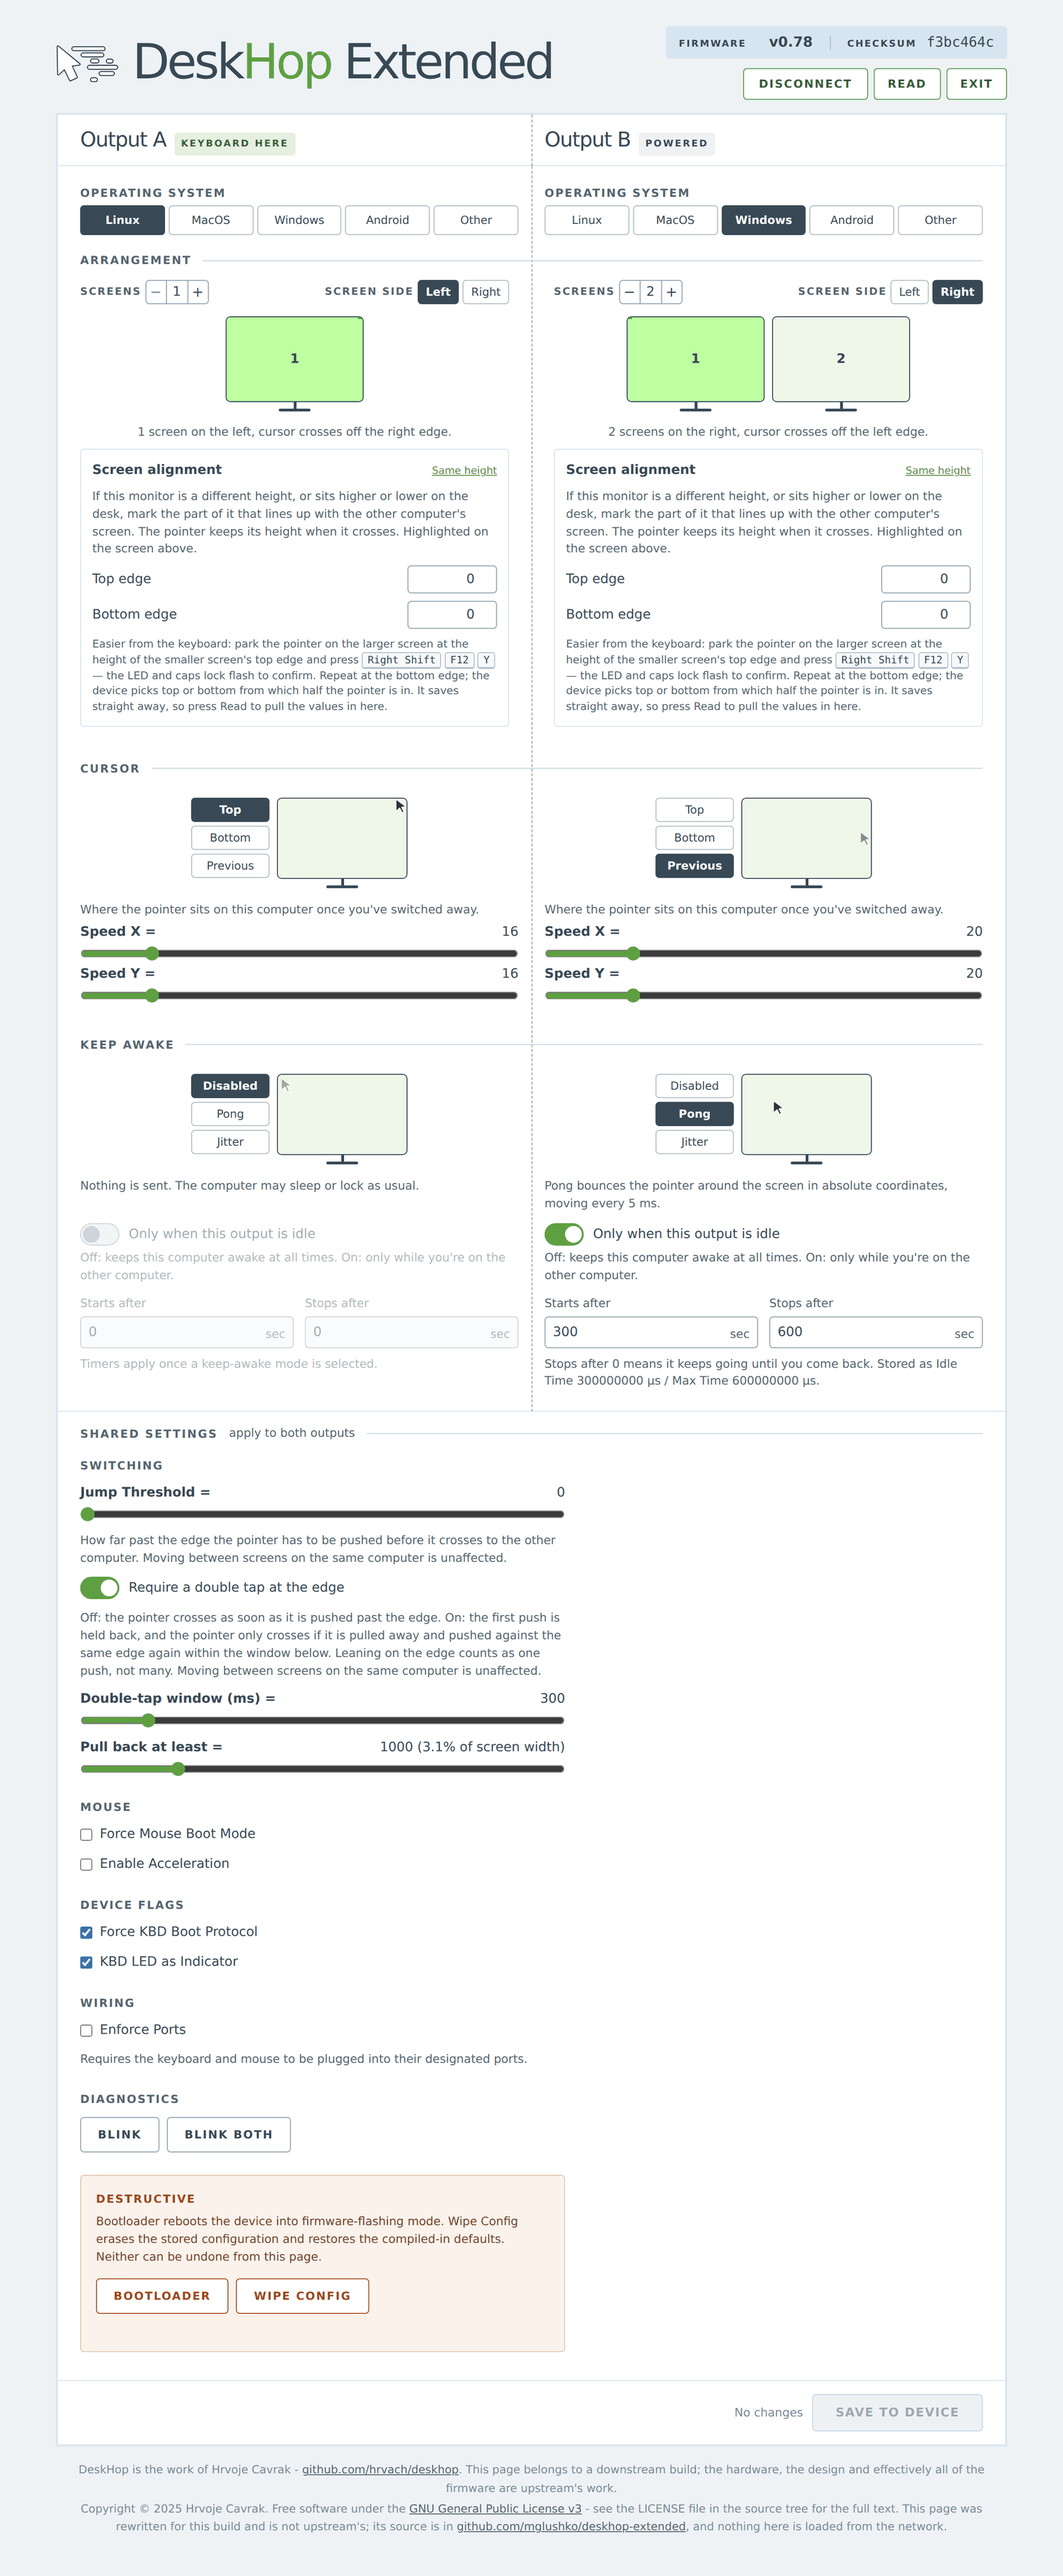
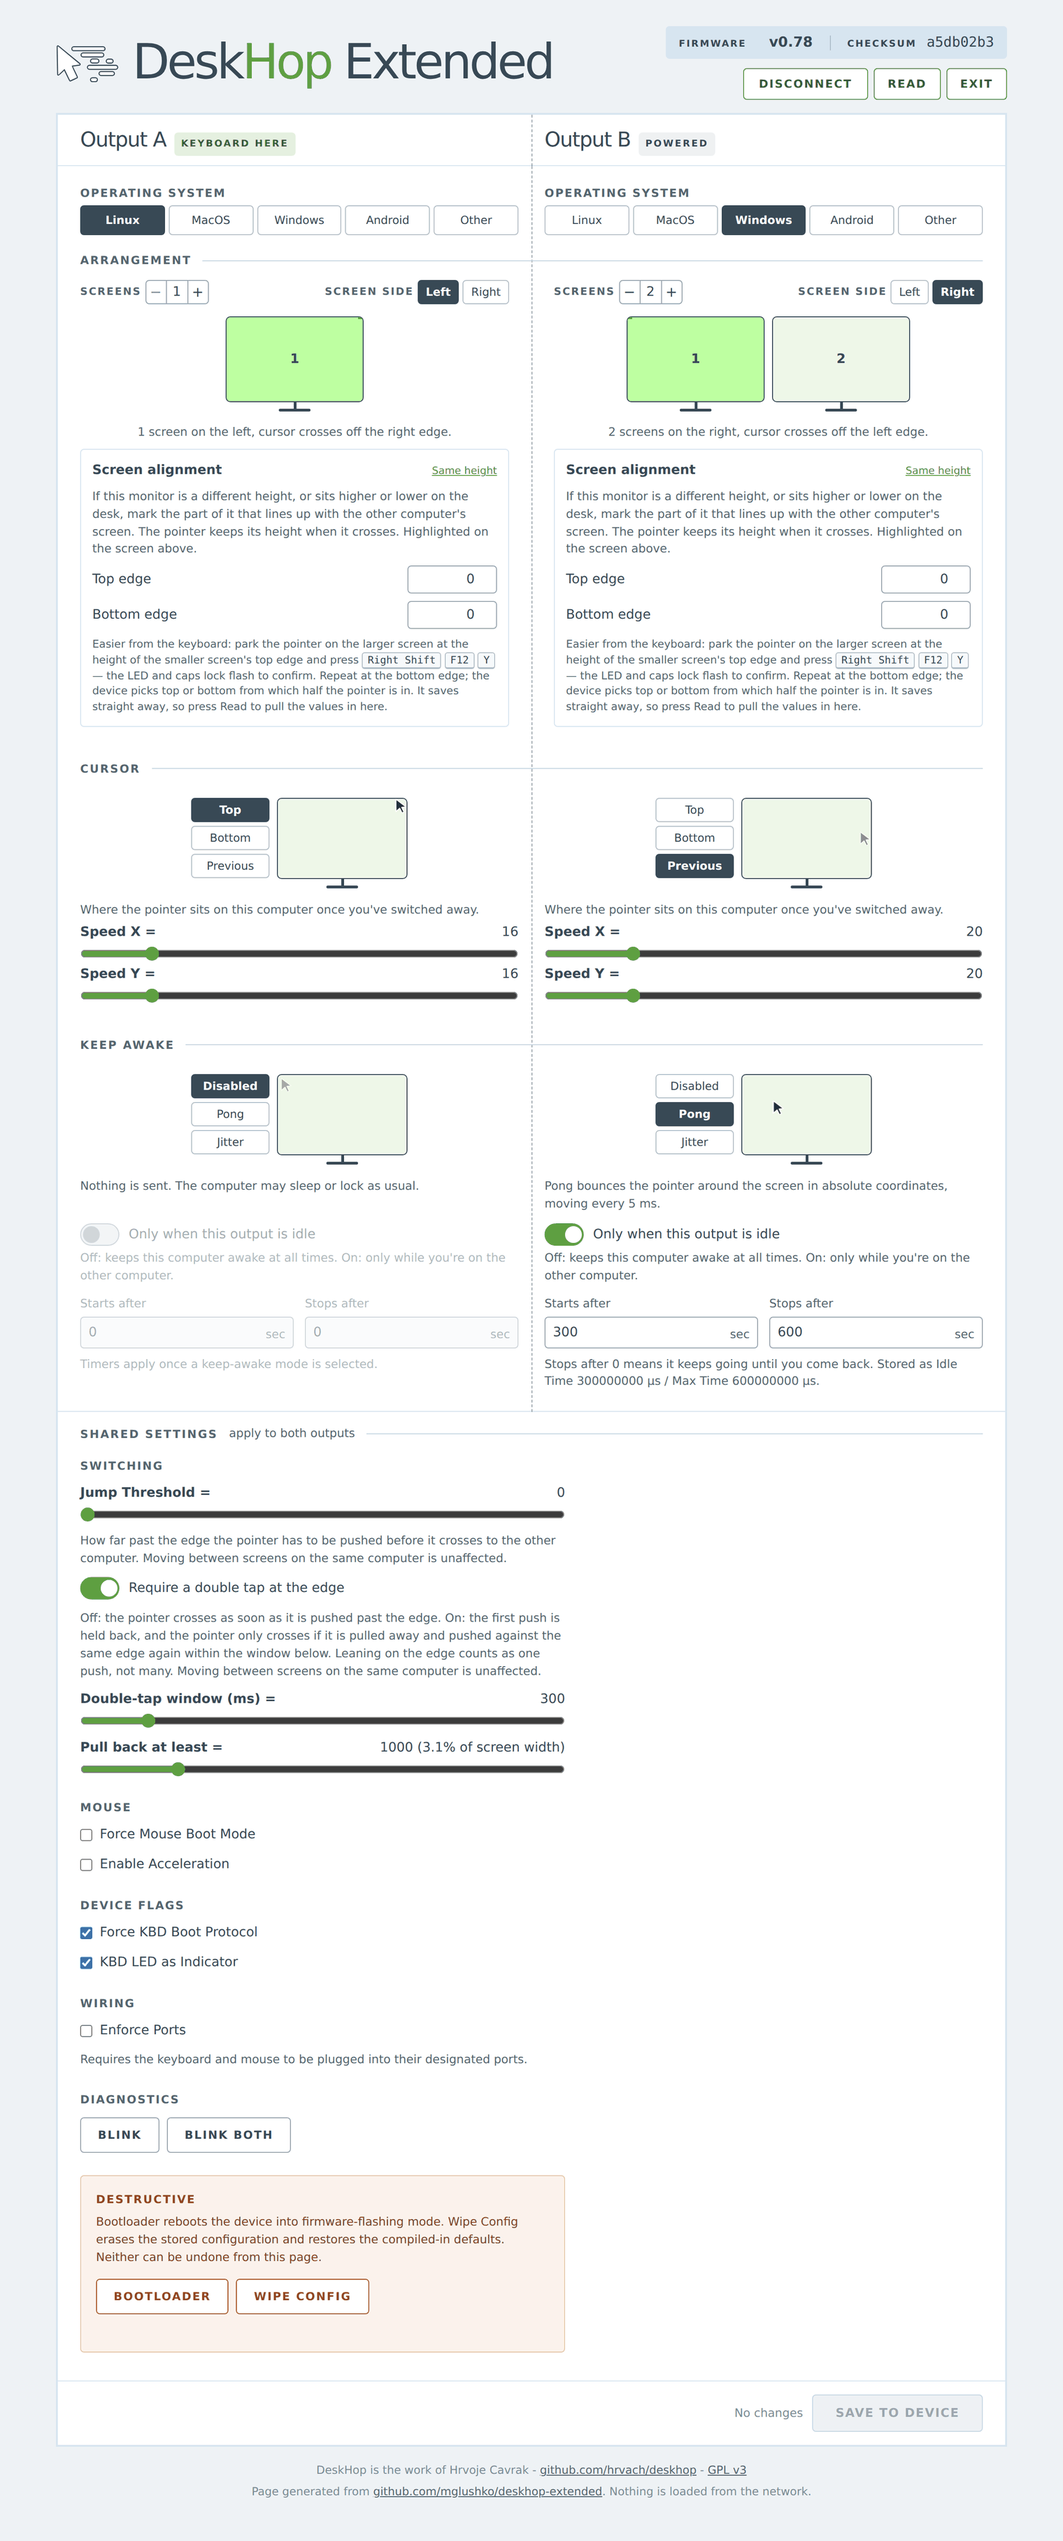
Cut the config page footer back to credit, source and no-network
The footer had accumulated a copyright line, a pointer to the LICENSE
file, and a paragraph explaining that the page is a downstream rewrite -
more prose than a config page footer wants, and most of it repeating
what the README already says.

It now carries three things: who wrote DeskHop, where this page is
generated from, and that nothing is fetched from the network. The GPL v3
link stays so the terms are one click from the device; the copyright
notice is gone. That is allowed - GPLv3 section 5(d) only requires an
interactive interface to display legal notices where it already does,
and upstream's config page never did. LICENSE in the repo root remains
the canonical statement of terms.

config.htm drops 24348 -> 24112 bytes, still 12 clusters ending at
offset 46592. Rebuilt disk.img, firmware and the README screenshot.

diff --git a/webconfig/config.htm b/webconfig/config.htm
@@ -1,1 +1,1 @@
[2 lines of base64/hex data omitted]

diff --git a/webconfig/config-unpacked.htm b/webconfig/config-unpacked.htm
@@ -838,15 +838,11 @@ input[type=range][disabled] { accent-color: var(--grey); cursor: default; }
 
   <div class="attrib">
     <p>DeskHop is the work of Hrvoje Cavrak -
-    <a href="https://github.com/hrvach/deskhop" target="_blank" rel="noopener noreferrer">github.com/hrvach/deskhop</a>.
-    This page belongs to a downstream build; the hardware, the design and
-    effectively all of the firmware are upstream's work.</p>
-    <p>Copyright &copy; 2025 Hrvoje Cavrak. Free software under the
-    <a href="https://www.gnu.org/licenses/gpl-3.0.html" target="_blank" rel="noopener noreferrer">GNU General Public License v3</a>
-    - see the LICENSE file in the source tree for the full text. This page was rewritten for
-    this build and is not upstream's; its source is in
-    <a href="https://github.com/mglushko/deskhop-extended" target="_blank" rel="noopener noreferrer">github.com/mglushko/deskhop-extended</a>,
-    and nothing here is loaded from the network.</p>
+    <a href="https://github.com/hrvach/deskhop" target="_blank" rel="noopener noreferrer">github.com/hrvach/deskhop</a> -
+    <a href="https://www.gnu.org/licenses/gpl-3.0.html" target="_blank" rel="noopener noreferrer">GPL v3</a></p>
+    <p>Page generated from
+    <a href="https://github.com/mglushko/deskhop-extended" target="_blank" rel="noopener noreferrer">github.com/mglushko/deskhop-extended</a>.
+    Nothing is loaded from the network.</p>
   </div>
 
 </div>

diff --git a/webconfig/templates/main.html b/webconfig/templates/main.html
@@ -383,15 +383,11 @@
 
   <div class="attrib">
     <p>DeskHop is the work of Hrvoje Cavrak -
-    <a href="https://github.com/hrvach/deskhop" target="_blank" rel="noopener noreferrer">github.com/hrvach/deskhop</a>.
-    This page belongs to a downstream build; the hardware, the design and
-    effectively all of the firmware are upstream's work.</p>
-    <p>Copyright &copy; 2025 Hrvoje Cavrak. Free software under the
-    <a href="https://www.gnu.org/licenses/gpl-3.0.html" target="_blank" rel="noopener noreferrer">GNU General Public License v3</a>
-    - see the LICENSE file in the source tree for the full text. This page was rewritten for
-    this build and is not upstream's; its source is in
-    <a href="https://github.com/mglushko/deskhop-extended" target="_blank" rel="noopener noreferrer">github.com/mglushko/deskhop-extended</a>,
-    and nothing here is loaded from the network.</p>
+    <a href="https://github.com/hrvach/deskhop" target="_blank" rel="noopener noreferrer">github.com/hrvach/deskhop</a> -
+    <a href="https://www.gnu.org/licenses/gpl-3.0.html" target="_blank" rel="noopener noreferrer">GPL v3</a></p>
+    <p>Page generated from
+    <a href="https://github.com/mglushko/deskhop-extended" target="_blank" rel="noopener noreferrer">github.com/mglushko/deskhop-extended</a>.
+    Nothing is loaded from the network.</p>
   </div>
 
 </div>
